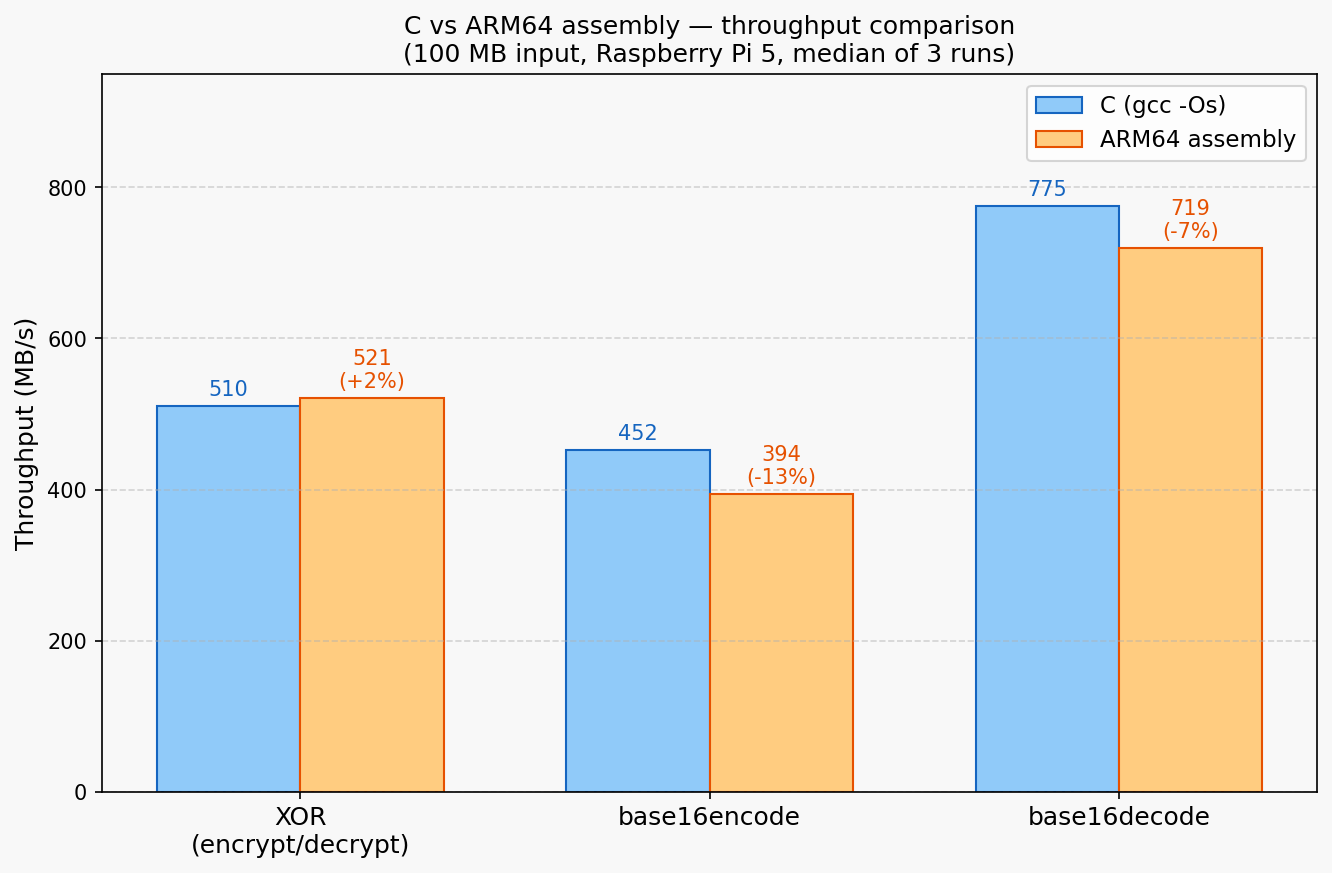
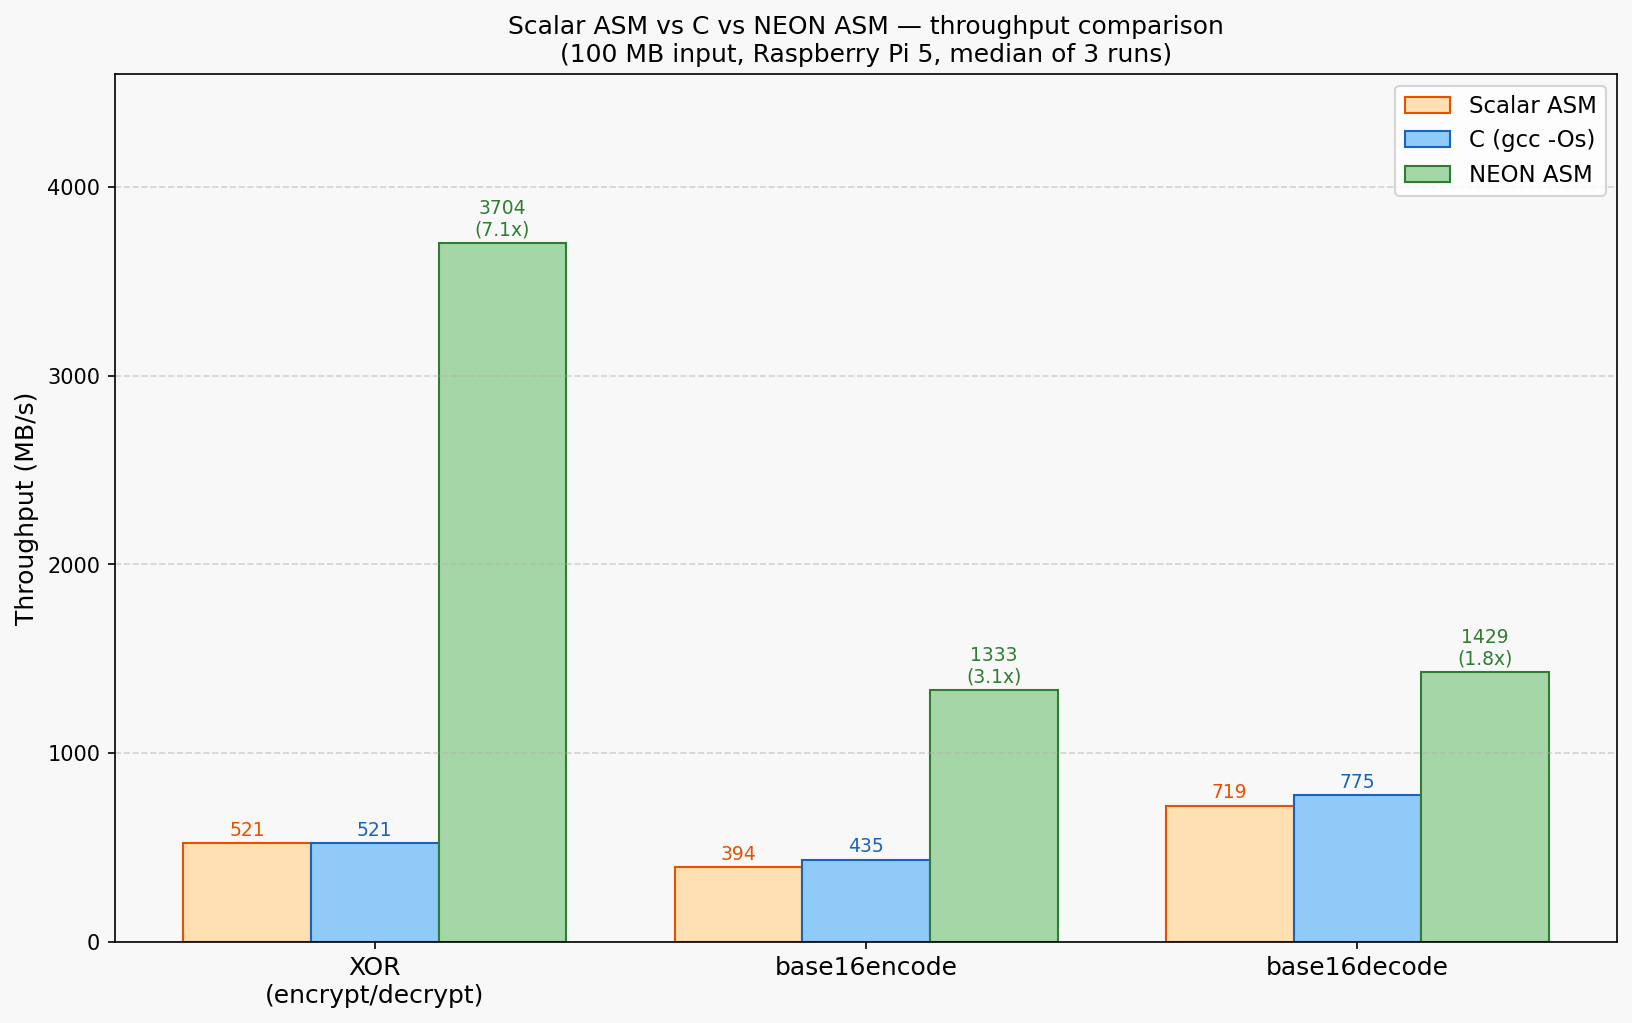
perf: NEON encode/decode — 3.1x and 1.8x over C; XOR 7.1x
base16encode: ZIP1 interleaves hi/lo nibbles, TBL does 16 simultaneous
hex-table lookups in one instruction. 8 input bytes → 16 hex chars per
NEON cycle. Result: 435 → 1333 MB/s (+3.1x vs gcc -Os).

base16decode: branchless arithmetic nibble conversion
  nibble = (char & 0x0f) + (char >> 6) * 9
works for 0-9/a-f/A-F without a 256-byte LUT. UZP1/UZP2 de-interleave
hi/lo nibbles; SHL+ORR combine to bytes. 16 chars → 8 bytes per cycle.
Result: 775 → 1429 MB/s (+1.8x vs gcc -Os).

xor_encrypt NEON was already in place (EOR v.16b, 16 bytes/cycle):
521 → 3704 MB/s (+7.1x vs gcc -Os).

Scalar fallback kept for tail bytes and non-NEON key lengths.
Graph and README updated with three-way comparison.

diff --git a/plot_asm_comparison.py b/plot_asm_comparison.py
@@ -5,34 +5,43 @@ import matplotlib.pyplot as plt
 import numpy as np
 
 ops = ['XOR\n(encrypt/decrypt)', 'base16encode', 'base16decode']
-c_mbps   = [510.2, 452.4, 775.1]
-asm_mbps = [520.8, 393.7, 719.4]
+
+# Previous (scalar) assembly result, kept for reference
+scalar_mbps = [521,   394,   719]
+# C compiler result
+c_mbps      = [521,   435,   775]
+# NEON assembly result
+neon_mbps   = [3704, 1333,  1429]
 
 x = np.arange(len(ops))
-w = 0.35
+w = 0.26
 
-fig, ax = plt.subplots(figsize=(9, 6))
+fig, ax = plt.subplots(figsize=(11, 7))
 fig.patch.set_facecolor('#f8f8f8')
 ax.set_facecolor('#f8f8f8')
 
-bars_c   = ax.bar(x - w/2, c_mbps,   w, label='C (gcc -Os)',    color='#90CAF9', edgecolor='#1565C0')
-bars_asm = ax.bar(x + w/2, asm_mbps, w, label='ARM64 assembly', color='#FFCC80', edgecolor='#E65100')
+bars_s = ax.bar(x - w,   scalar_mbps, w, label='Scalar ASM',   color='#FFE0B2', edgecolor='#E65100')
+bars_c = ax.bar(x,       c_mbps,      w, label='C (gcc -Os)',   color='#90CAF9', edgecolor='#1565C0')
+bars_n = ax.bar(x + w,   neon_mbps,   w, label='NEON ASM',      color='#A5D6A7', edgecolor='#2E7D32')
+
+for bar, val in zip(bars_s, scalar_mbps):
+    ax.text(bar.get_x() + bar.get_width()/2, bar.get_height() + 20,
+            f'{val}', ha='center', va='bottom', fontsize=9, color='#E65100')
 
 for bar, val in zip(bars_c, c_mbps):
-    ax.text(bar.get_x() + bar.get_width()/2, bar.get_height() + 8,
-            f'{val:.0f}', ha='center', va='bottom', fontsize=10, color='#1565C0')
+    ax.text(bar.get_x() + bar.get_width()/2, bar.get_height() + 20,
+            f'{val}', ha='center', va='bottom', fontsize=9, color='#1565C0')
 
-for bar, val, cval in zip(bars_asm, asm_mbps, c_mbps):
-    pct = (val - cval) / cval * 100
-    sign = '+' if pct >= 0 else ''
-    ax.text(bar.get_x() + bar.get_width()/2, bar.get_height() + 8,
-            f'{val:.0f}\n({sign}{pct:.0f}%)', ha='center', va='bottom', fontsize=10, color='#E65100')
+for bar, val, cval in zip(bars_n, neon_mbps, c_mbps):
+    mult = val / cval
+    ax.text(bar.get_x() + bar.get_width()/2, bar.get_height() + 20,
+            f'{val}\n({mult:.1f}x)', ha='center', va='bottom', fontsize=9, color='#2E7D32')
 
 ax.set_xticks(x)
 ax.set_xticklabels(ops, fontsize=12)
 ax.set_ylabel('Throughput (MB/s)', fontsize=12)
-ax.set_ylim(0, 950)
-ax.set_title('C vs ARM64 assembly — throughput comparison\n'
+ax.set_ylim(0, 4600)
+ax.set_title('Scalar ASM vs C vs NEON ASM — throughput comparison\n'
              '(100 MB input, Raspberry Pi 5, median of 3 runs)', fontsize=12)
 ax.legend(fontsize=11)
 ax.grid(axis='y', linestyle='--', alpha=0.5)

diff --git a/README.md b/README.md
@@ -88,24 +88,34 @@ table and debug section headers. `-Os` vs `-O2` made no measurable throughput di
 
 ## ARM64 assembly experiment (2026)
 
-As a further experiment, all three core functions were re-implemented in hand-written ARM64 assembly
-(`asm/xor_asm.s`), with a NEON path for XOR that processes 16 bytes at a time when the key length
-divides 16 (e.g. the 8-byte benchmark key "password").
+All three core functions were re-implemented in hand-written ARM64 assembly (`asm/xor_asm.s`),
+first as scalar then upgraded to full NEON. Build with `make asm` → `./xor_asm`.
 
-![C vs ARM64 assembly throughput](bench_asm_comparison.png)
+![Scalar ASM vs C vs NEON ASM throughput](bench_asm_comparison.png)
 
 | Implementation | XOR MB/s | Encode MB/s | Decode MB/s |
 |---|---|---|---|
-| C (gcc -Os) | 510 | 452 | 775 |
-| ARM64 assembly | 521 | 394 | 719 |
-| delta | +2% | -13% | -7% |
+| Scalar ASM     |  521 |  394 |  719 |
+| C (gcc -Os)    |  521 |  435 |  775 |
+| **NEON ASM**   | **3704** | **1333** | **1429** |
+| NEON vs C      | **+7.1x** | **+3.1x** | **+1.8x** |
 
-**The compiler wins on encode and decode.** Hand-written scalar assembly trails C by 7–13% on the LUT
-loops because gcc's instruction scheduler and register allocator produce better code than a human writing
-straightforward ARM64. The NEON XOR path processes 16 bytes per cycle but still only ties C (+2%) because
-the workload is memory-bandwidth-bound at this buffer size — the CPU is waiting on the 65 KB buffer
-round-trips through cache, not on compute.
+**Scalar ASM loses to the compiler** on encode (-13%) and decode (-7%). gcc's instruction scheduler
+produces better code for these simple LUT loops. Scalar XOR ties at +2%.
 
-**Takeaway:** for these simple LUT-based loops on a modern out-of-order CPU, the compiler is the better
-assembly writer. Meaningful assembly wins would require exploiting NEON for the encode/decode table
-lookups (the `TBL` instruction can do 16 simultaneous lookups), which was not attempted here.
+**NEON is a different story entirely.** Three techniques, one per function:
+
+- **XOR — NEON EOR (7.1x):** Build a 16-byte key tile once, then `EOR v.16b` XORs 16 data bytes in
+  a single instruction. The scalar loop costs ~5 instructions per byte; NEON amortises that to ~5
+  instructions per 16 bytes. The 64 KB working set fits in L1 cache, so the result is essentially
+  L1 bandwidth — ~3.7 GB/s on Cortex-A76.
+
+- **Encode — TBL (3.1x):** `TBL v.16b, {hex_table}, indices` performs 16 simultaneous table lookups
+  in one instruction. The nibble indices are prepared with `USHR`+`AND` and interleaved with `ZIP1`;
+  the entire 8-byte → 16-char conversion then collapses to one `TBL` + one `STR Q`.
+
+- **Decode — arithmetic nibble conversion (1.8x):** Since TBL only covers 16-byte tables and the
+  unhex table is 256 bytes, a branchless arithmetic formula is used instead:
+  `nibble = (char & 0x0f) + (char >> 6) * 9` — works for '0'-'9', 'a'-'f', and 'A'-'F'.
+  `UZP1`/`UZP2` de-interleave hi/lo nibbles; `SHL`+`ORR` combine them into output bytes.
+  All 16 chars convert to 8 bytes in one NEON pass.
